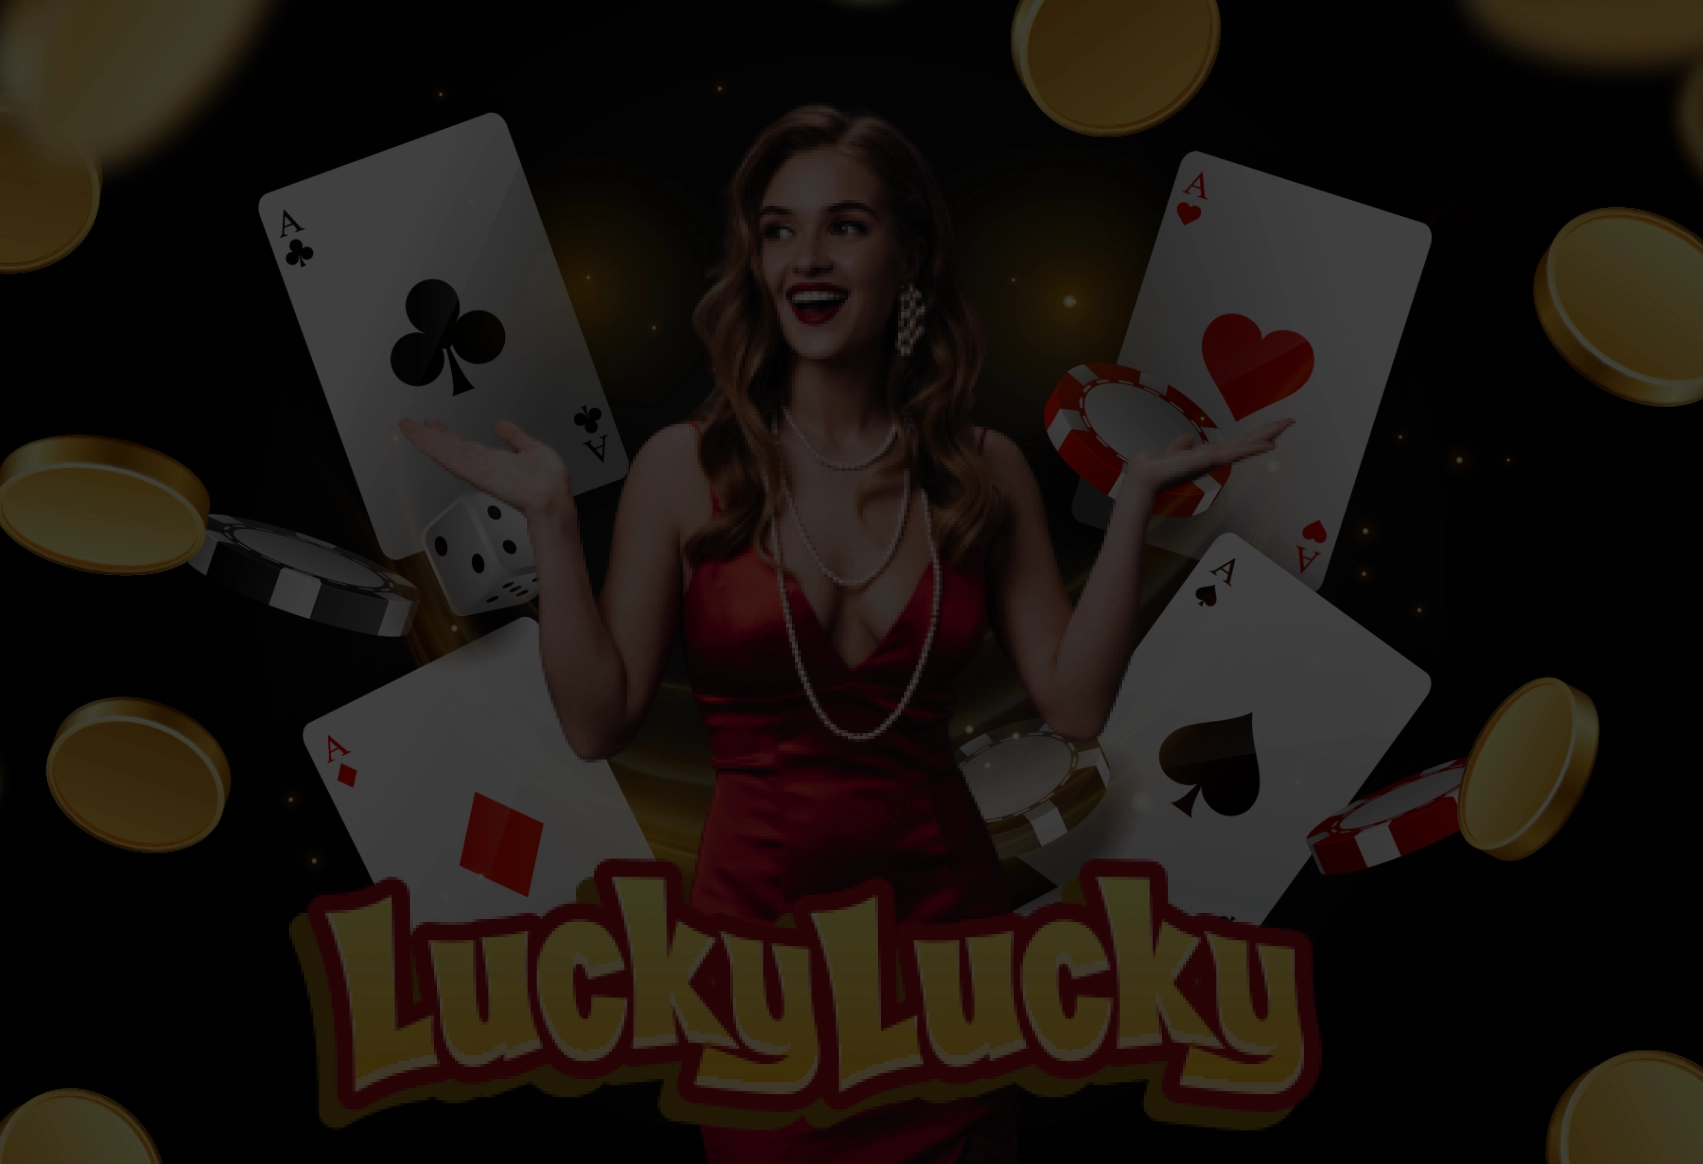
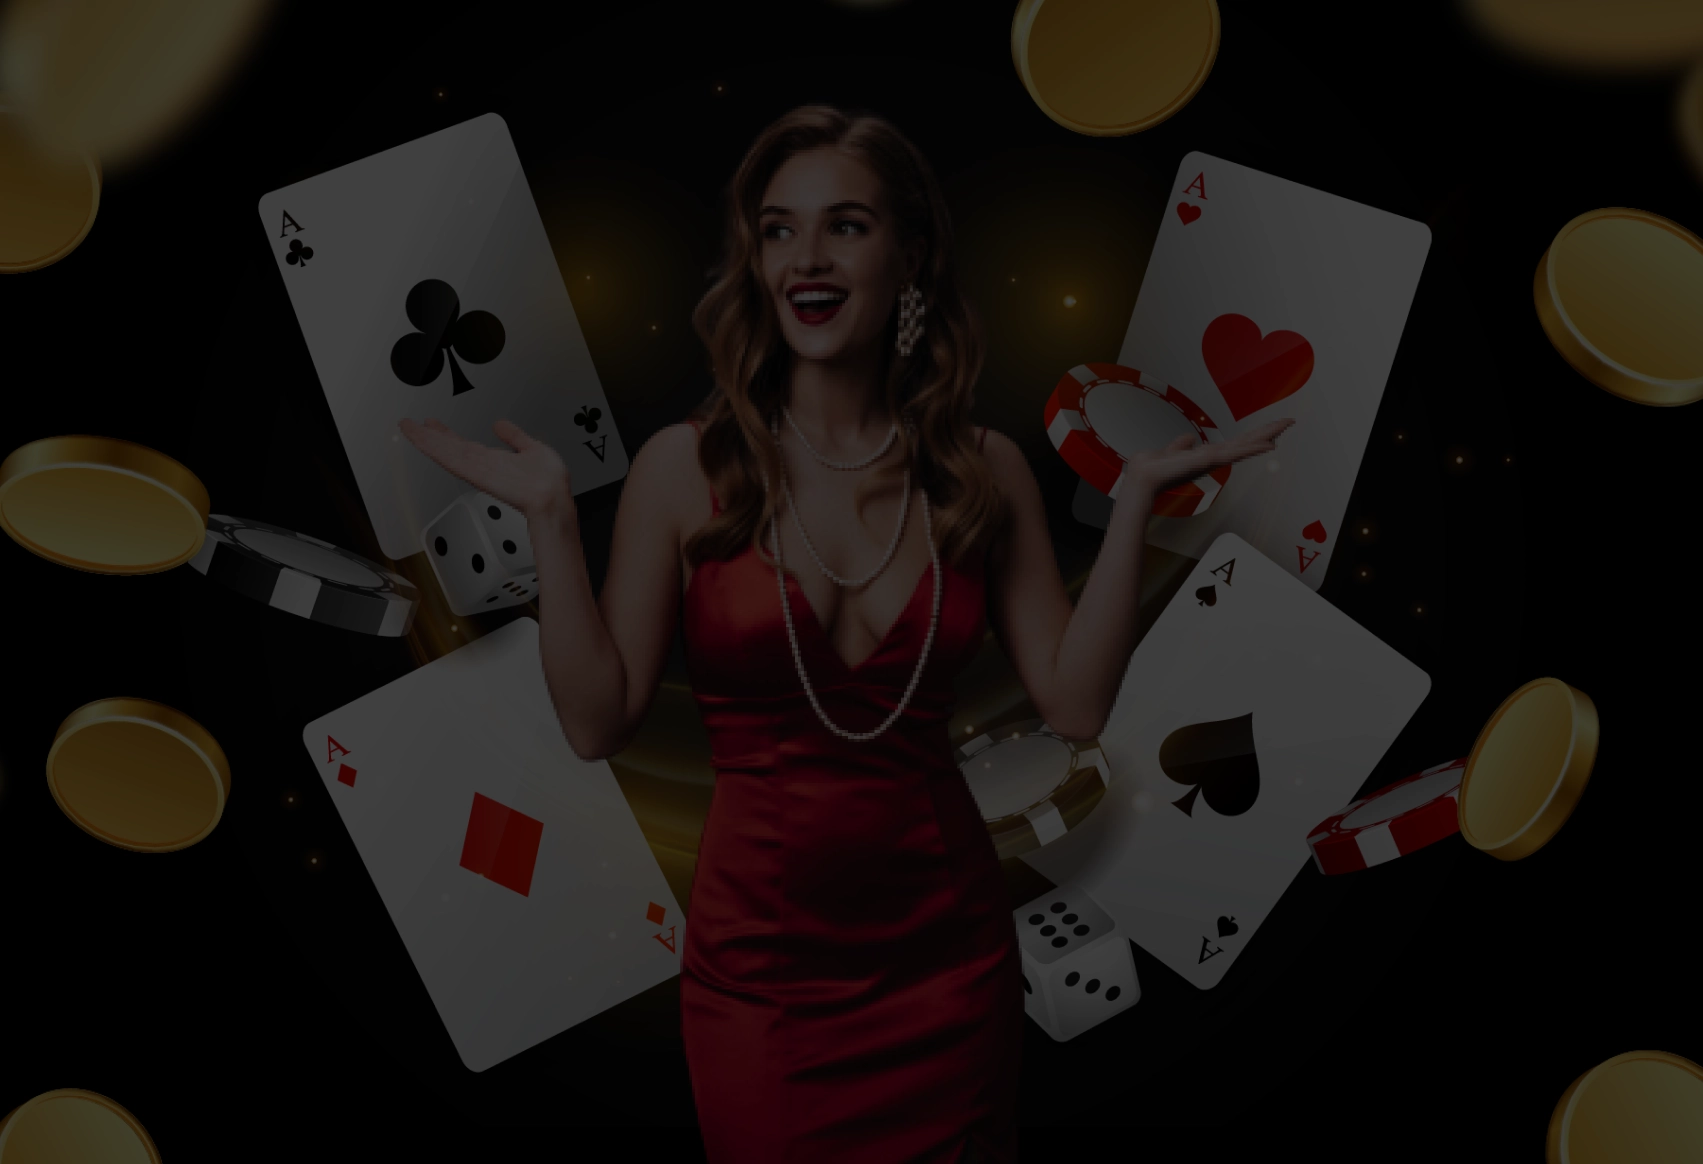
Changed credential background

Changed region(s): [[0.1556, 0.7423, 0.778, 0.9897]]

diff --git a/win-win/styles.css b/win-win/styles.css
@@ -113,8 +113,9 @@ span {
 .credentials {
     padding: 6vw;
     background-color: black;
-    background-image: url('images/credentials-background.webp');
+    background-image: url(images/credentials-background.webp);
     background-size: cover;
+    background-position: center;
 }
 .iconsContainer {
     display: flex;
